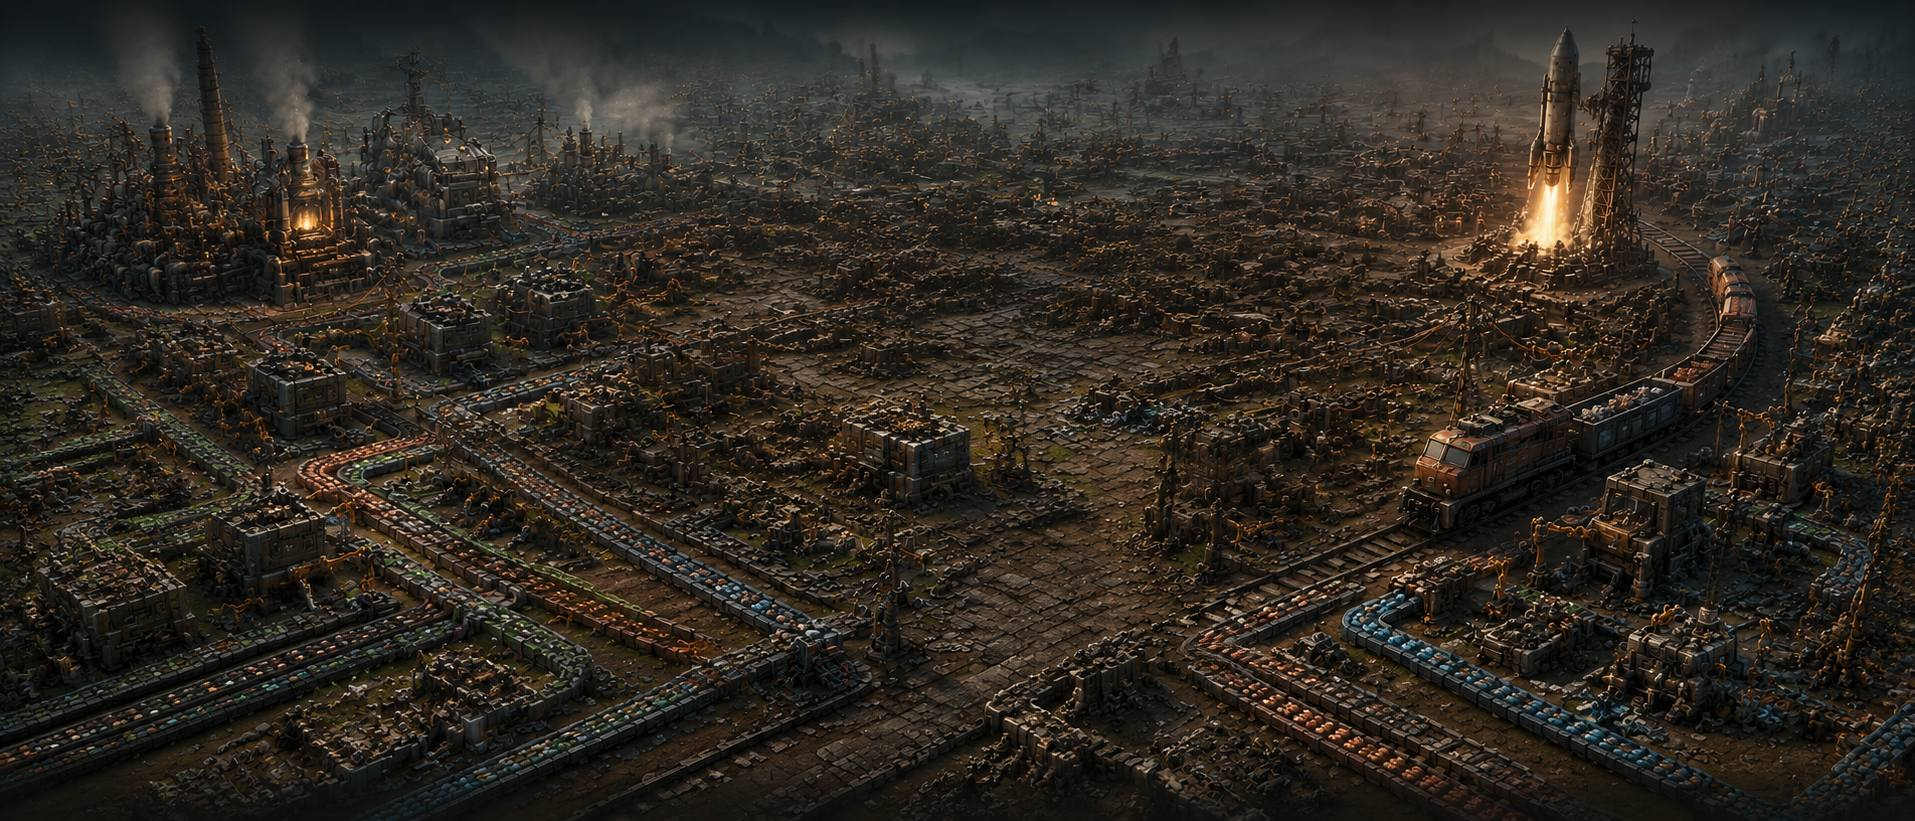
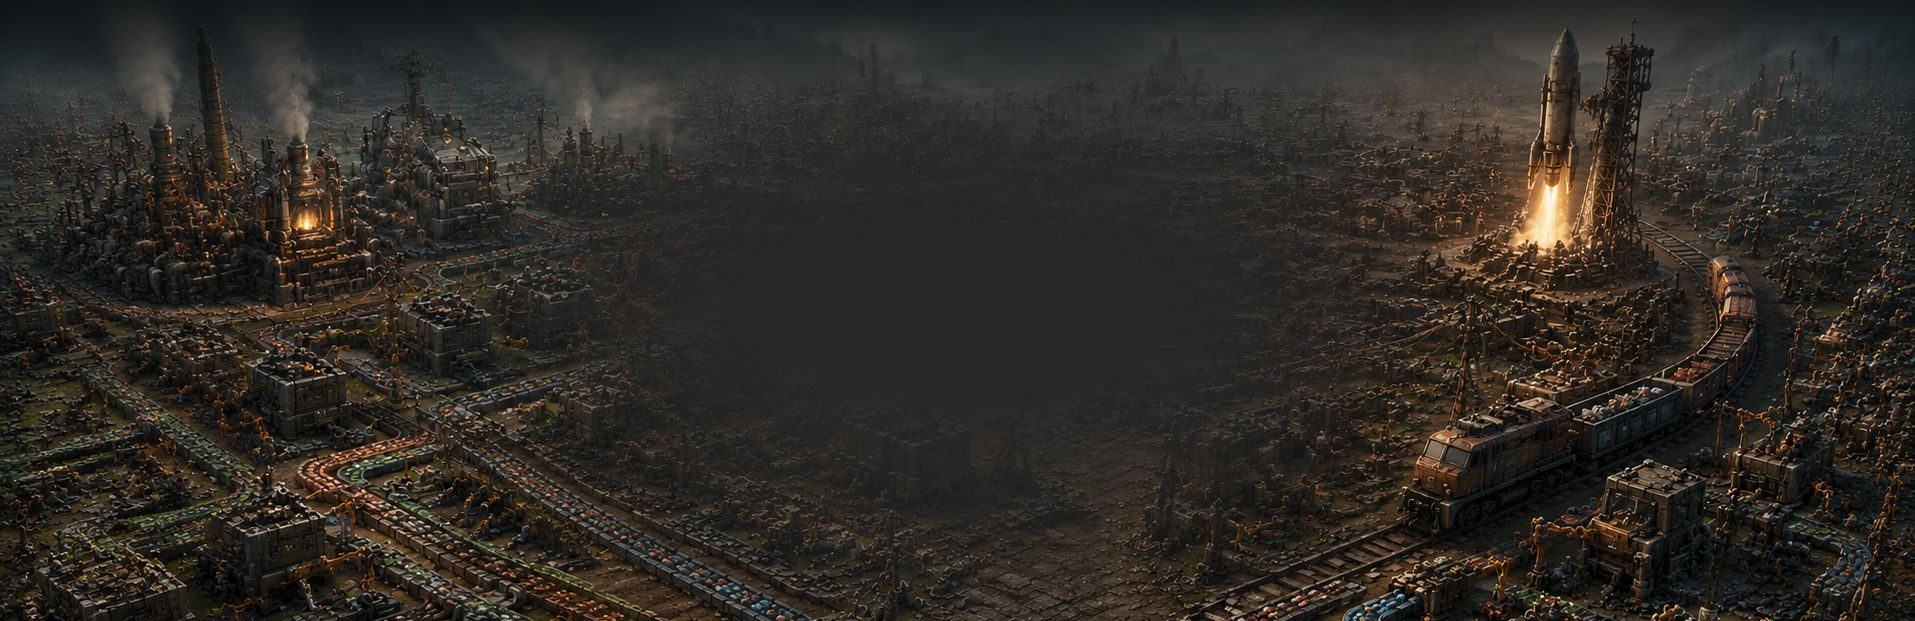
fix: replace hero bg with new image, remove dark panel

diff --git a/static/css/main.css b/static/css/main.css
@@ -329,13 +329,8 @@ blockquote::before {
 .hero-content {
   position: relative; z-index: 2;
   text-align: center;
-  padding: 3rem 2.5rem;
-  max-width: 720px;
-  background: linear-gradient(135deg, rgba(10,10,10,0.75) 0%, rgba(20,20,20,0.65) 100%);
-  border: 1px solid rgba(232,148,28,0.2);
-  border-radius: 8px;
-  backdrop-filter: blur(6px);
-  box-shadow: 0 8px 32px rgba(0,0,0,0.5);
+  padding: 4rem 2rem 3.5rem;
+  max-width: 780px;
 }
 
 .hero-badge {